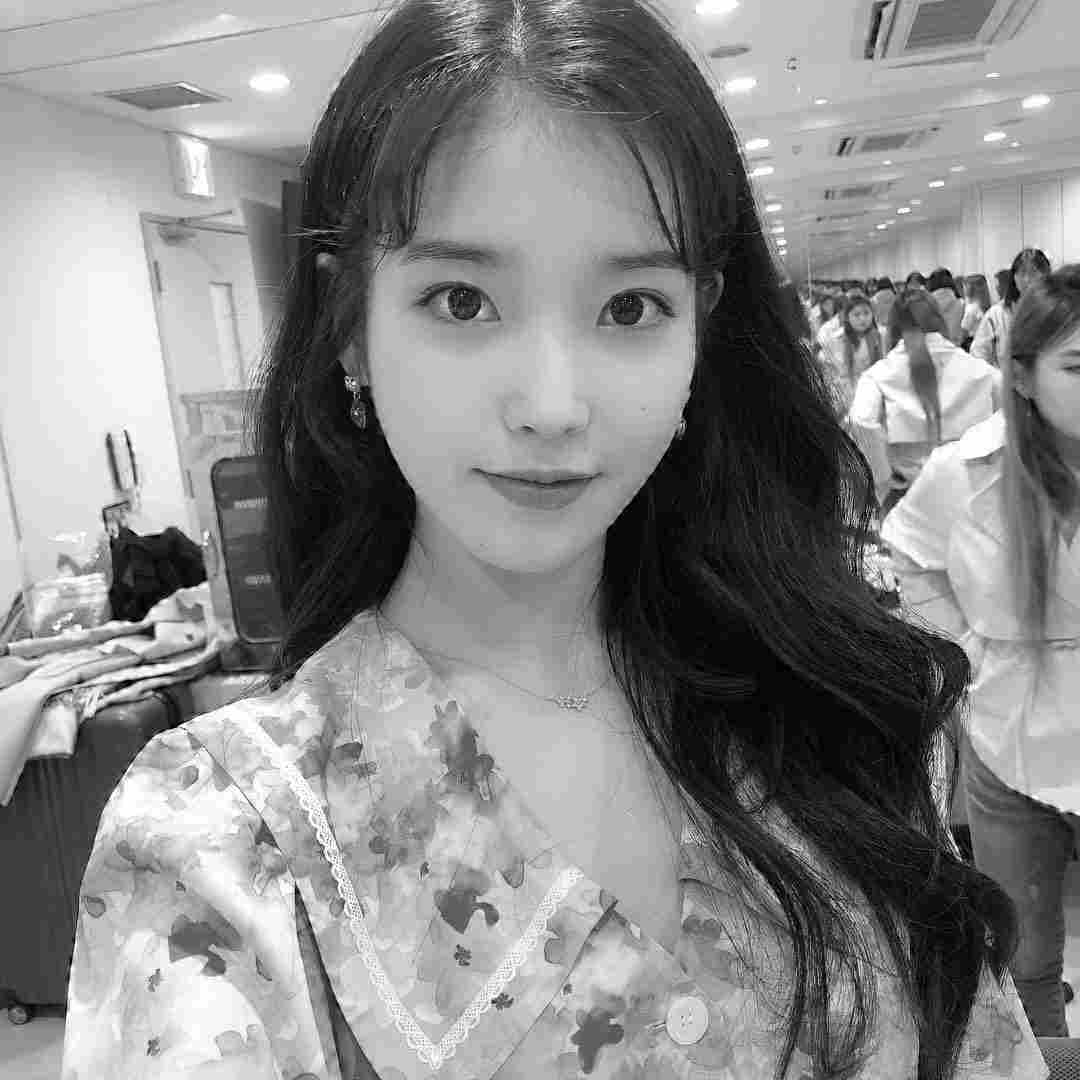
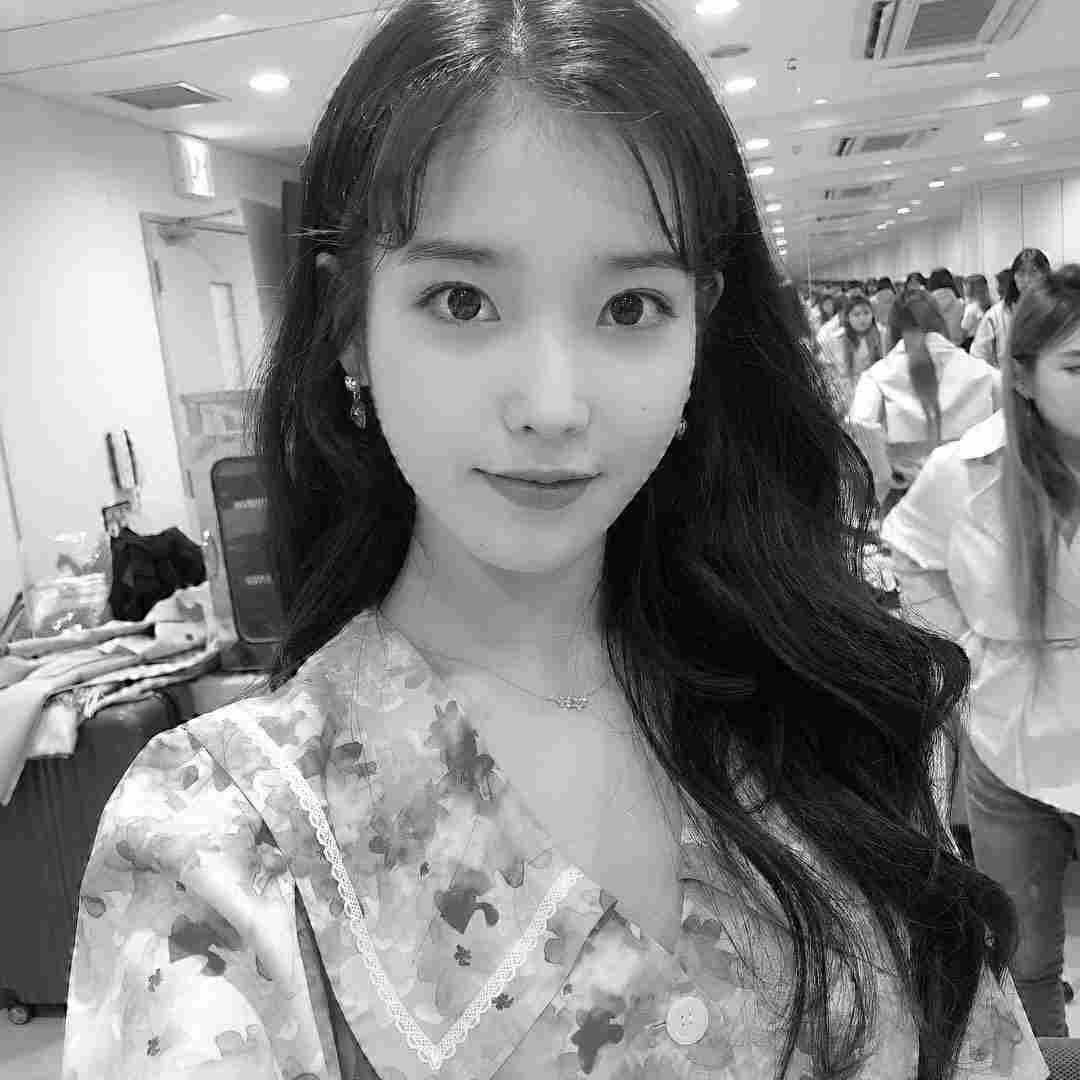
dithering

diff --git a/main.m b/main.m
@@ -72,11 +72,9 @@ detectWatermark(image6, 'histogramStretched', 7, numOfX, Xarr, M, L, alpha, alph
 image7=addGaussianNoise(image1, 'GaussianNoiseAdded', 8, imageIndex, fileName);
 detectWatermark(image7, 'GaussianNoiseAdded', 8, numOfX, Xarr, M, L, alpha, alphaBar, imageIndex, fileName);
 
-
-
-
-
-
+%% dithering
+image8=dithering(image1, 'dithered', 9, imageIndex, fileName);
+detectWatermark(image8, 'dithered', 9, numOfX, Xarr, M, L, alpha, alphaBar, imageIndex, fileName);
 
 
 

diff --git a/dithering.m b/dithering.m
@@ -1,0 +1,3 @@
+function outputImage = dithering(image, titleString, plotNumber, imageIndex, fileName)
+outputImage=dither(image); %dithering
+imwrite(outputImage,strcat('output/',string(imageIndex),'_',string(plotNumber),'_',titleString,'_',fileName));
